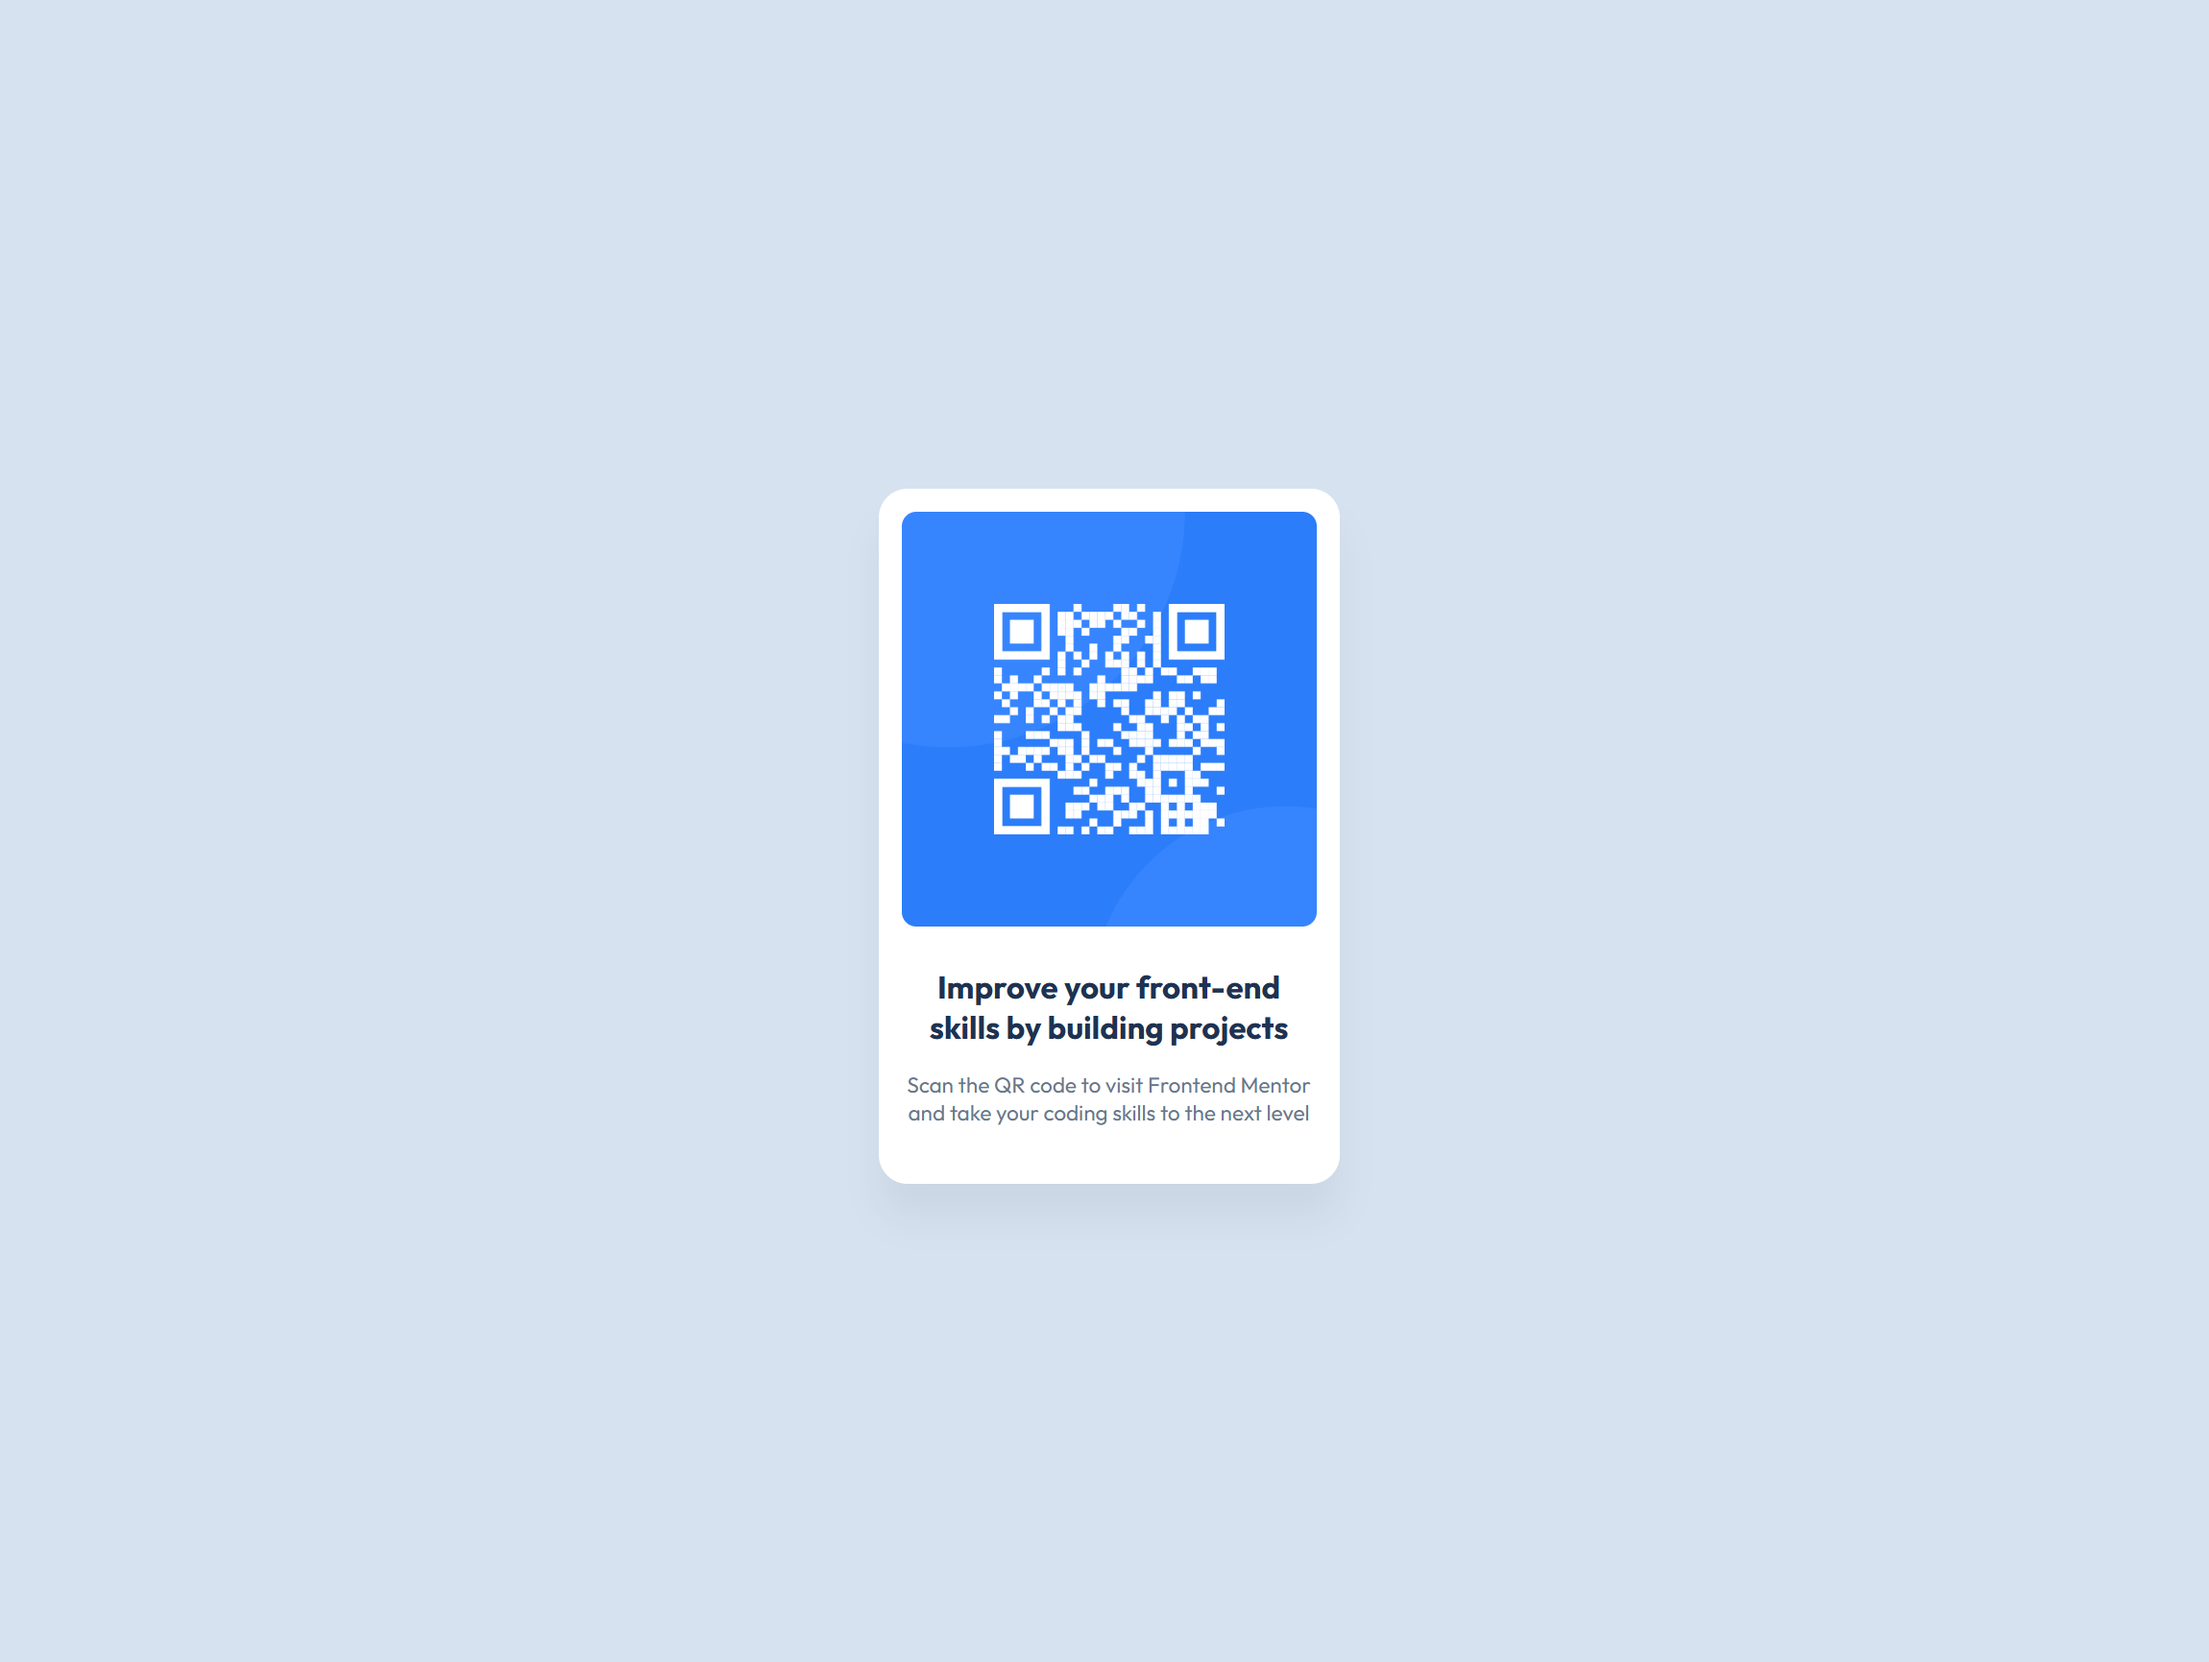
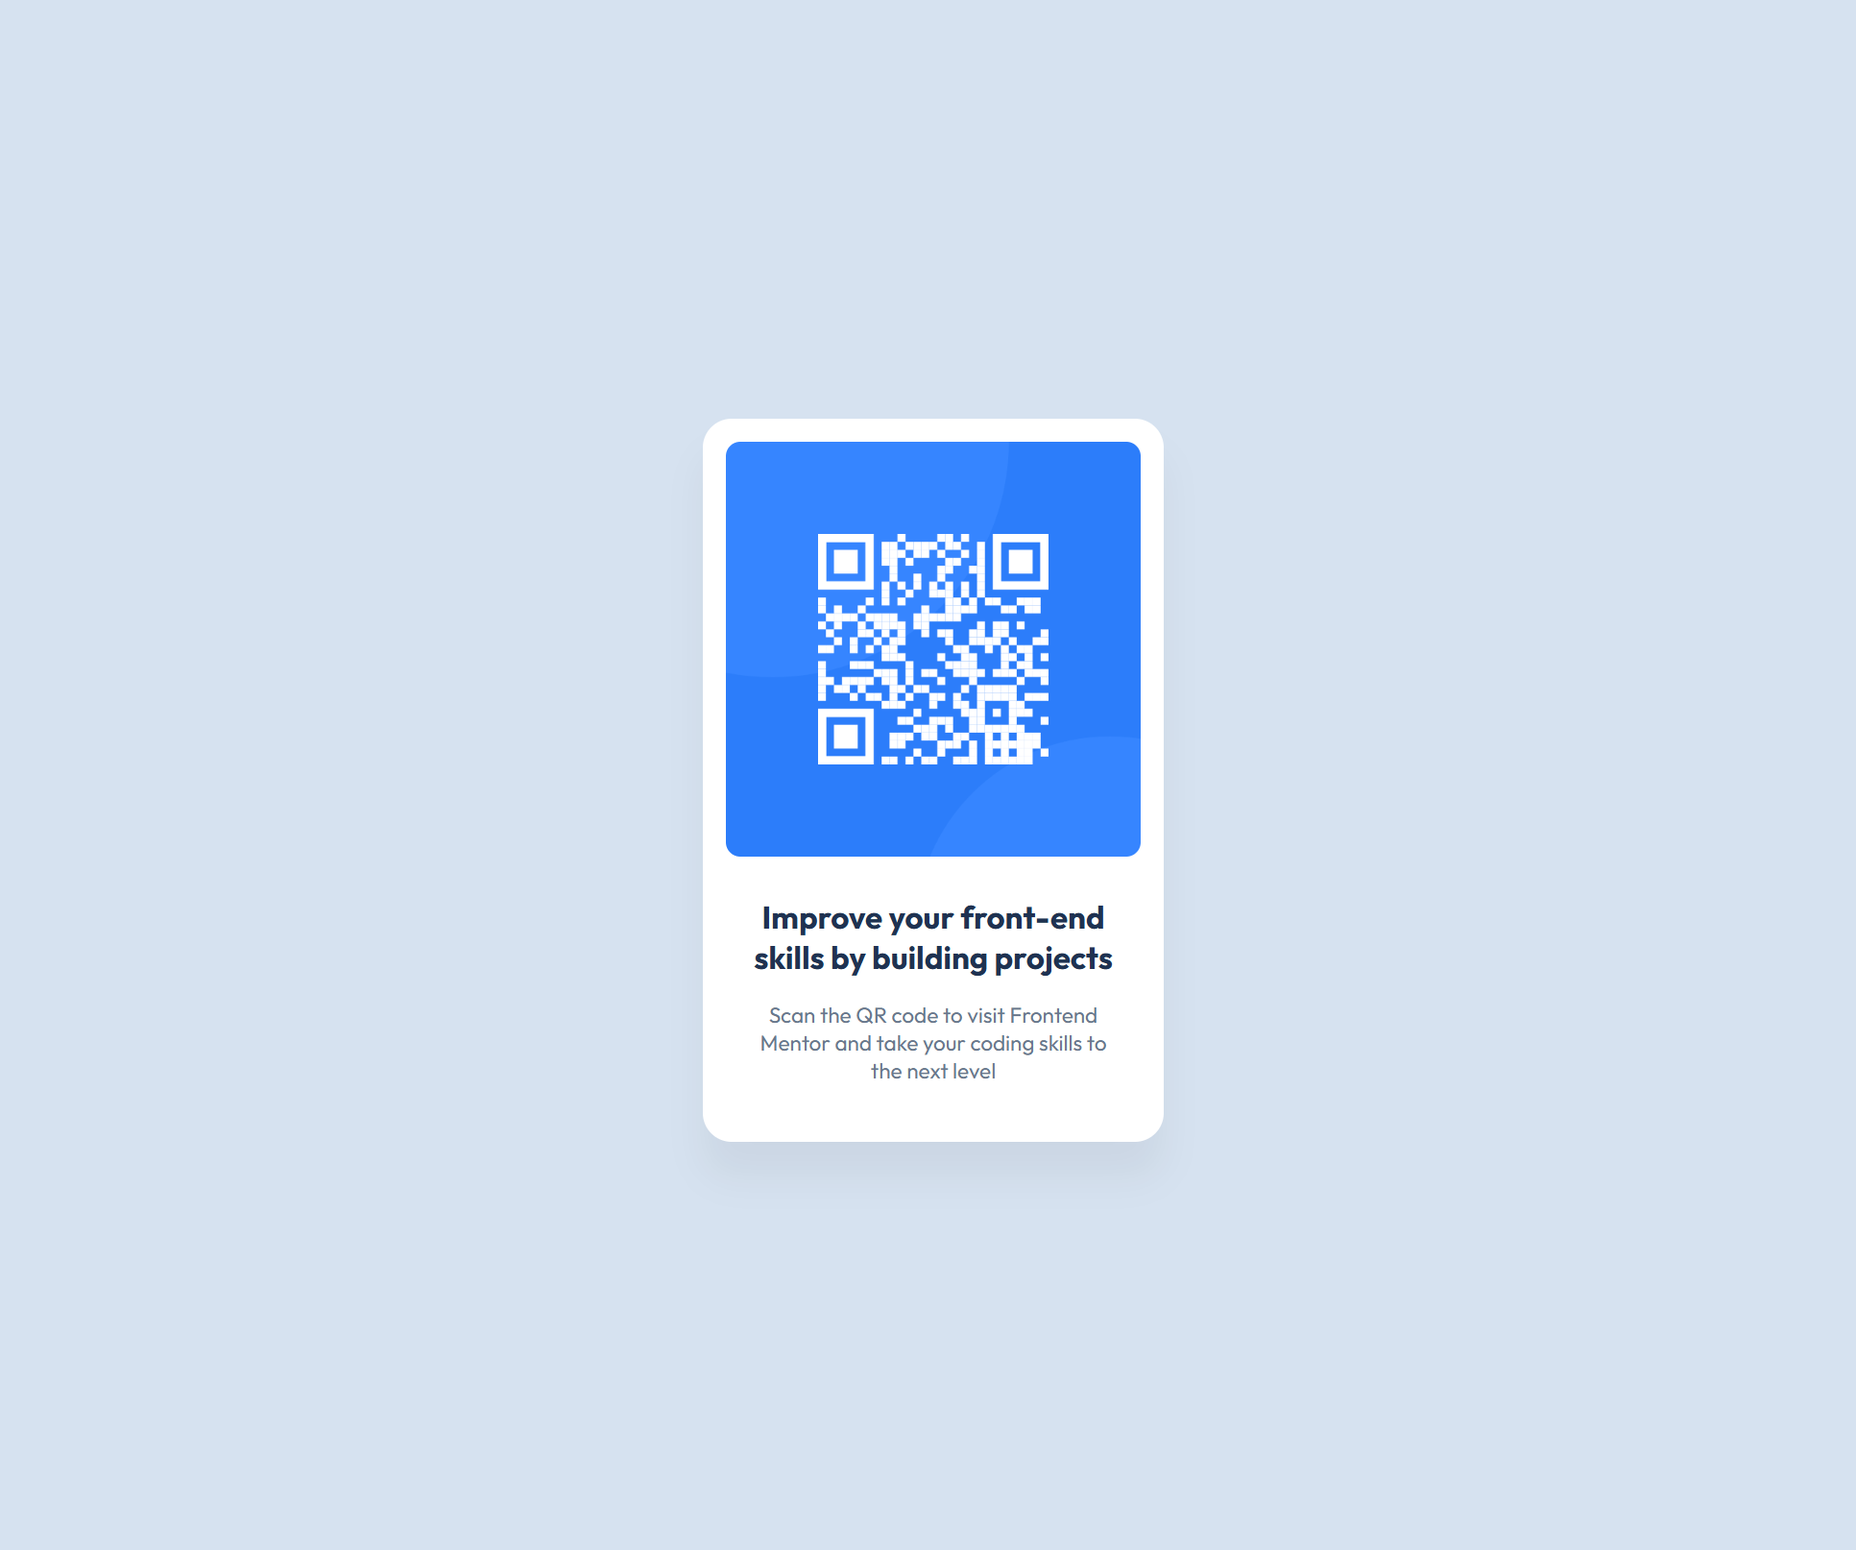
edit padding on text

Changed region(s): [[0.3725, 0.2478, 0.6518, 0.7435]]

diff --git a/style.css b/style.css
@@ -47,3 +47,8 @@ p {
     font-size: 15px;
     color: hsl(216, 15%, 48%);
 }
+
+div.text {
+    max-width: 288px;
+    padding: 0 16px;
+}
